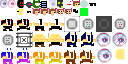
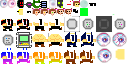
Add terminal block with nuke countdown feature
- Added propType_terminal (tile index 17 from tiles2.png)
- Terminal has 50 health and can be pushed around
- Terminals spawn at all checkpoints except the first one
- Player melee attacks trigger 5-second nuke countdown
- Countdown beeps every second with visual feedback
- Explodes with default nuke (radius 15) after countdown
- Updated melee attack code to detect terminals

Changed region(s): [[0.125, 0.5, 0.2812, 0.75]]

diff --git a/appObjects.js b/appObjects.js
@@ -178,7 +178,8 @@ const propType_barrel_highExplosive = 6;
 const propType_rock                 = 7;
 const propType_rock_lava            = 8;
 const propType_rock_jackrock        = 9;
-const propType_count                = 10;
+const propType_terminal             = 10;
+const propType_count                = 11;
 
 class Prop extends GameObject 
 {
@@ -271,6 +272,19 @@ class Prop extends GameObject
             this.isCrushing = 1;
             this.explosionSize = 10; // Enormous explosion - biggest in the game
         }
+        else if (this.type == propType_terminal)
+        {
+            this.tileIndex = 17; // Tile index 17 from tiles2.png
+            this.tileSize = vec2(16); // tiles2.png uses 16x16 tiles
+            this.color = new Color(1,1,1); // White/default color
+            health = 50;
+            // Nuke countdown properties
+            this.isNuking = false;
+            this.nukeTimer = new Timer(5); // 5 second countdown
+            this.beepTimer = new Timer(1); // Beep every 1 second
+            this.nukeStartTime = 0; // Track when countdown started
+            // Normal size, pushable, no special properties
+        }
 
         // randomly angle and flip axis (90 degree rotation)
         this.angle = (rand(4)|0)*PI/2;
@@ -291,6 +305,27 @@ class Prop extends GameObject
         const deltaSpeedSquared = this.velocity.subtract(oldVelocity).lengthSquared();
         deltaSpeedSquared > .05 && this.damage(2*deltaSpeedSquared);
 
+        // Terminal nuke countdown
+        if (this.type == propType_terminal && this.isNuking && !this.destroyed)
+        {
+            // Check if countdown has elapsed (5 seconds)
+            const elapsed = time - this.nukeStartTime;
+            if (elapsed >= 5 || this.nukeTimer.elapsed())
+            {
+                // Nuke time!
+                nukeExplosion(this.pos, 15); // Default nuke radius
+                this.destroy();
+                return;
+            }
+
+            // Beep every second
+            if (this.beepTimer.elapsed())
+            {
+                playSound(sound_grenade, this.pos);
+                this.beepTimer.set(1);
+            }
+        }
+
         // Darken jackrock color based on health percentage
         if (this.type == propType_rock_jackrock && this.baseColor)
         {
@@ -303,8 +338,47 @@ class Prop extends GameObject
 
     damage(damage, damagingObject)
     {
+        // Terminal: detect player melee attacks (damage = 1, from player character)
+        if (this.type == propType_terminal && !this.isNuking && !this.destroyed)
+        {
+            // Check if this is a player melee attack (damage = 1, from player character)
+            if (damagingObject && damagingObject.isPlayer && damage == 1)
+            {
+                // Start nuke countdown (only once, continue if already started)
+                this.isNuking = true;
+                this.nukeTimer.set(5); // 5 second countdown
+                this.beepTimer.set(1); // Start beeping immediately
+                this.nukeStartTime = time;
+            }
+        }
+        
         (this.explosionSize || this.type == propType_crate_wood && rand() < .1) && this.burn();
         super.damage(damage, damagingObject);
+    }
+
+    render()
+    {
+        // Terminal uses drawTile2 (tiles2.png), all other props use drawTile (tiles.png)
+        if (this.type == propType_terminal && typeof drawTile2 === 'function')
+        {
+            drawTile2(this.pos, this.size, this.tileIndex, this.tileSize, this.color.scale(this.burnColorPercent(),1), this.angle, this.mirror, this.additiveColor);
+            
+            // Visual feedback during nuke countdown (similar to grenade)
+            if (this.isNuking && !this.destroyed)
+            {
+                const elapsed = time - this.nukeStartTime;
+                const a = elapsed; // Use elapsed time for pulsing
+                setBlendMode(1);
+                drawTile(this.pos, vec2(2), 0, vec2(16), new Color(1,0,0,.2-.2*Math.cos(a*2*PI)));
+                drawTile(this.pos, vec2(1), 0, vec2(16), new Color(1,0,0,.2-.2*Math.cos(a*2*PI)));
+                drawTile(this.pos, vec2(.5), 0, vec2(16), new Color(1,1,1,.2-.2*Math.cos(a*2*PI)));
+                setBlendMode(0);
+            }
+        }
+        else
+        {
+            super.render();
+        }
     }
 
     kill()
@@ -371,10 +445,26 @@ class Checkpoint extends GameObject
         for(let x=3;x--;)
         for(let y=6;y--;)
             setTileCollisionData(pos.subtract(vec2(x-1,1-y)), y ? tileType_empty : tileType_solid);
+        
+        // Spawn terminal at checkpoint (except first checkpoint)
+        // We'll check isFirstCheckpoint after it's set in appLevel.js
+        // Use a small delay to check the property after construction
+        this.terminalSpawned = false;
     }
 
     update()
     {
+        // Spawn terminal on first update if not first checkpoint
+        if (!this.terminalSpawned && !this.isFirstCheckpoint)
+        {
+            // Spawn terminal prop at checkpoint position
+            const terminal = new Prop(this.pos, propType_terminal);
+            // Reset random rotation/mirroring for checkpoint terminals (keep them upright)
+            terminal.angle = 0;
+            terminal.mirror = 0;
+            this.terminalSpawned = true;
+        }
+        
         if (!this.inUpdateWindow())
             return; // ignore offscreen objects
 
@@ -397,16 +487,8 @@ class Checkpoint extends GameObject
 
     render()
     {
-        // draw flag
-        const height = 4;
-        const a = Math.sin(time*4+this.pos.x);
-        // Draw flag when secured
-        if (this.secured)
-        {
-            const color = new Color(0,0,0); // Black when secured
-            drawTile(this.pos.add(vec2(.5,height-.3-.5-.03*a)), vec2(1,.6), 14, undefined, color, a*.06);  
-        }
-        drawRect(this.pos.add(vec2(0,height/2-.5)), vec2(.1,height), new Color(.9,.9,.9));
+        // Checkpoints no longer render anything (terminal is a physical prop)
+        // First checkpoint has no terminal, other checkpoints have terminal props spawned
     }
 }
 

diff --git a/app.js b/app.js
@@ -74,6 +74,65 @@ let titleMusic = null;
 let titleMusicPlaying = false;
 let titleScreenReady = false; // Track if user has pressed any key to start music
 
+// Array of all intro song URLs
+const introSongs = [
+    'https://mp3.tom7.org/t7es/2016/superior-olive.mp3',
+    'https://mp3.tom7.org/t7es/2010/olimex.mp3',
+    'https://mp3.tom7.org/t7es/2011/t7es-i-have-a-dram.mp3',
+    'https://mp3.tom7.org/t7es/2011/dil-pe-mat-le-yaars-revenge.mp3',
+    'https://mp3.tom7.org/t7es/2004/unauthorized.mp3',
+    'https://mp3.tom7.org/t7es/2013/beverage-voucher.mp3',
+    'https://mp3.tom7.org/t7es/2016/wires-comin-out.mp3',
+    'https://mp3.tom7.org/t7es/2016/mushroom-forest.mp3',
+    'https://mp3.tom7.org/t7es/2012/t7es-large-dark.mp3',
+    'https://mp3.tom7.org/t7es/2012/new-four-song-t7es-ep.mp3',
+    'https://mp3.tom7.org/t7es/2012/this-is-the-title-of-the-ep.mp3',
+    'https://mp3.tom7.org/t7es/2004/haskell.mp3'
+];
+
+// Function to play a random intro song
+function playRandomTitleMusic()
+{
+    // Stop and clean up previous song if it exists
+    if (titleMusic)
+    {
+        titleMusic.pause();
+        titleMusic.currentTime = 0;
+        titleMusic.onended = null; // Remove event listener
+        titleMusic = null;
+    }
+    
+    // Pick a random song from the array
+    const randomIndex = rand(introSongs.length) | 0;
+    const selectedSong = introSongs[randomIndex];
+    
+    // Create new Audio object for the selected song
+    titleMusic = new Audio(selectedSong);
+    titleMusic.loop = false; // Don't loop - we'll play next song when this ends
+    titleMusic.volume = 0.5;
+    
+    // Set up event listener to play next random song when current one ends
+    titleMusic.onended = function() {
+        playRandomTitleMusic(); // Play another random song
+    };
+    
+    // Handle errors
+    titleMusic.onerror = function() {
+        console.warn('Failed to load title music:', selectedSong);
+        // Try playing another song if this one fails
+        playRandomTitleMusic();
+    };
+    
+    // Start playing
+    titleMusic.play().then(function() {
+        titleMusicPlaying = true;
+    }).catch(function(error) {
+        console.warn('Could not play title music:', error);
+        // Try playing another song if playback fails
+        playRandomTitleMusic();
+    });
+}
+
 engineInit(
 
 ///////////////////////////////////////////////////////////////////////////////
@@ -87,13 +146,7 @@ engineInit(
     backgroundParallaxOffset = vec2();
     previousCameraPos = cameraPos.copy();
     
-    // Initialize title screen music
-    titleMusic = new Audio('https://mp3.tom7.org/t7es/2016/superior-olive.mp3');
-    titleMusic.loop = true;
-    titleMusic.volume = 0.5;
-    titleMusic.onerror = function() {
-        console.warn('Failed to load title music');
-    };
+    // Title screen music will be initialized when user presses a key
 },
 
 ///////////////////////////////////////////////////////////////////////////////
@@ -132,14 +185,10 @@ engineInit(
             if (anyKeyPressed)
             {
                 titleScreenReady = true;
-                // Start playing title music
-                if (titleMusic && !titleMusicPlaying)
+                // Start playing random title music
+                if (!titleMusicPlaying)
                 {
-                    titleMusic.play().then(function() {
-                        titleMusicPlaying = true;
-                    }).catch(function(error) {
-                        console.warn('Could not play title music:', error);
-                    });
+                    playRandomTitleMusic();
                 }
             }
         }
@@ -162,6 +211,8 @@ engineInit(
             {
                 titleMusic.pause();
                 titleMusic.currentTime = 0;
+                titleMusic.onended = null; // Remove event listener to prevent next song from playing
+                titleMusic = null;
                 titleMusicPlaying = false;
             }
             gameState = 'playing';

diff --git a/appCharacters.js b/appCharacters.js
@@ -190,6 +190,19 @@ class Character extends GameObject
                     o.applyForce(direction.scale(.05));
                 }
             });
+            
+            // Also check for terminals (props with type propType_terminal) - check all objects, not just collide objects
+            if (this.isPlayer)
+            {
+                forEachObject(this.pos, meleeRange, (o)=>
+                {
+                    // Check for terminals (props with type propType_terminal)
+                    if (o.type == propType_terminal && !o.destroyed && o.health > 0)
+                    {
+                        o.damage(1, this);
+                    }
+                }, 0); // 0 = check all objects, not just collide objects
+            }
         }
 
         // apply movement acceleration and clamp

diff --git a/appLevel.js b/appLevel.js
@@ -1506,6 +1506,7 @@ function nextLevel()
     const firstCheckpoint = new Checkpoint(checkpointPos);
     firstCheckpoint.setActive();
     firstCheckpoint.secured = true; // First checkpoint is already secured
+    firstCheckpoint.isFirstCheckpoint = true; // Mark as first checkpoint (no terminal on this one)
 
     applyArtToLevel();
 
